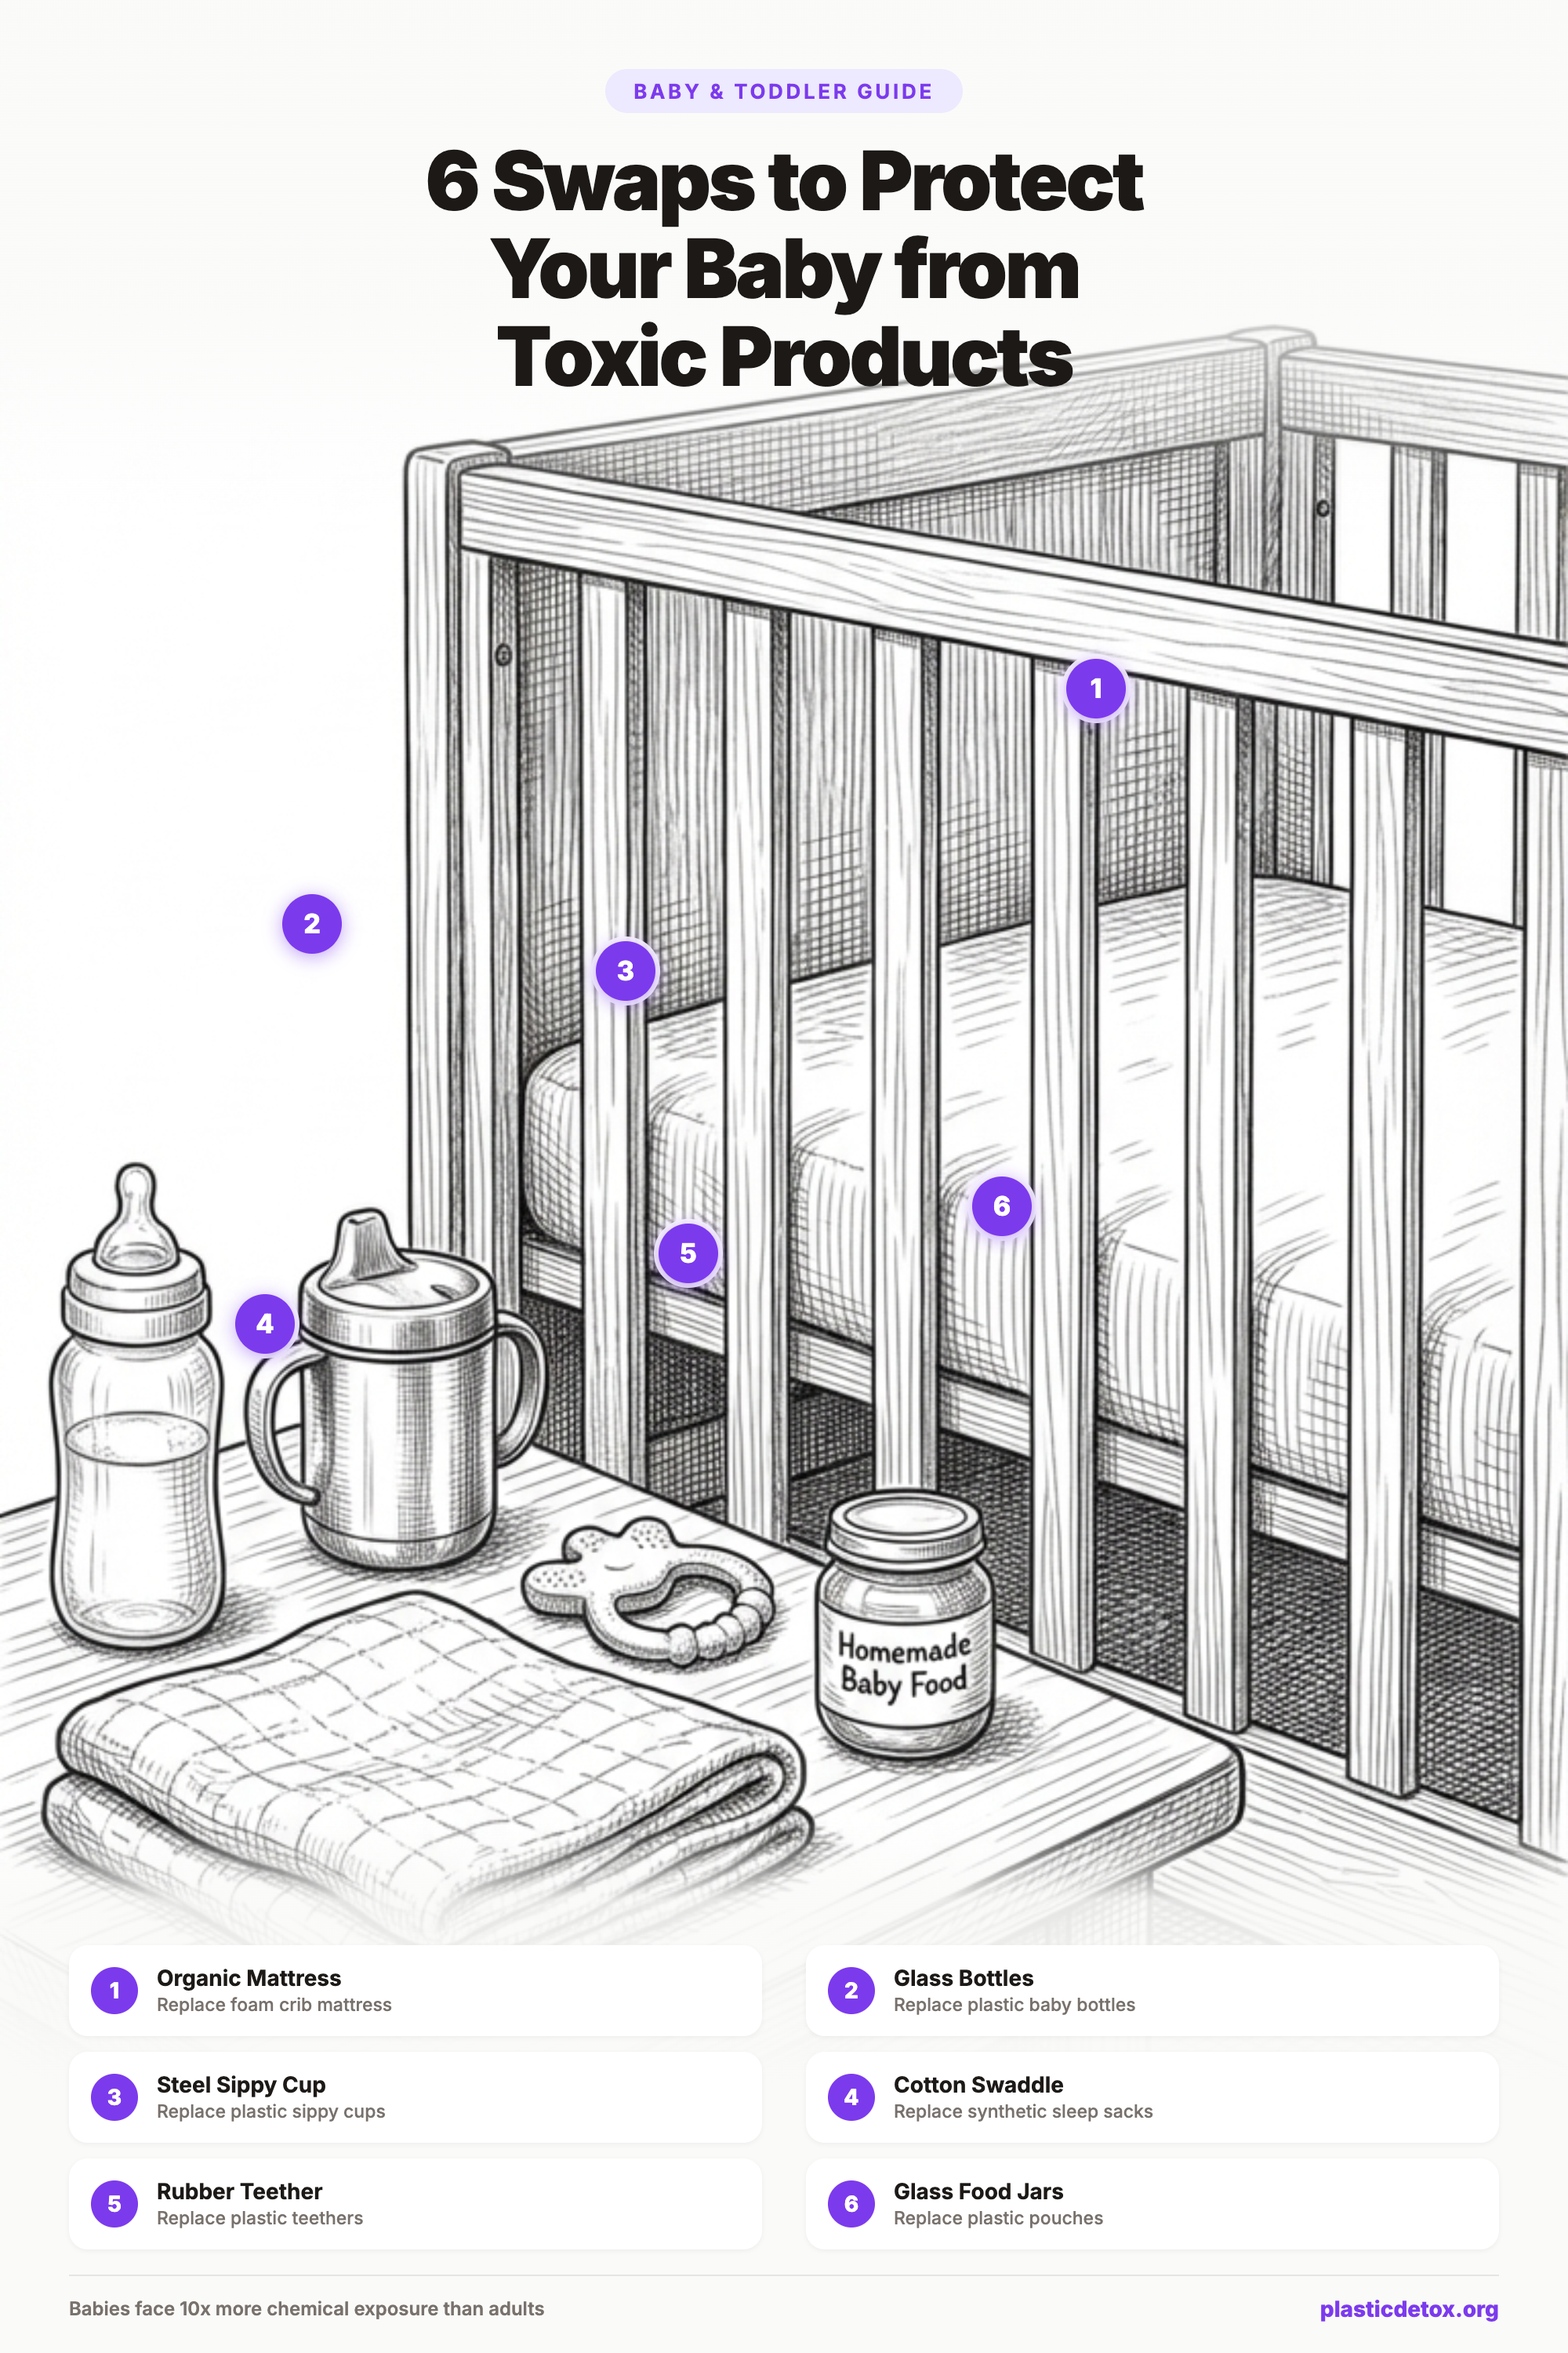
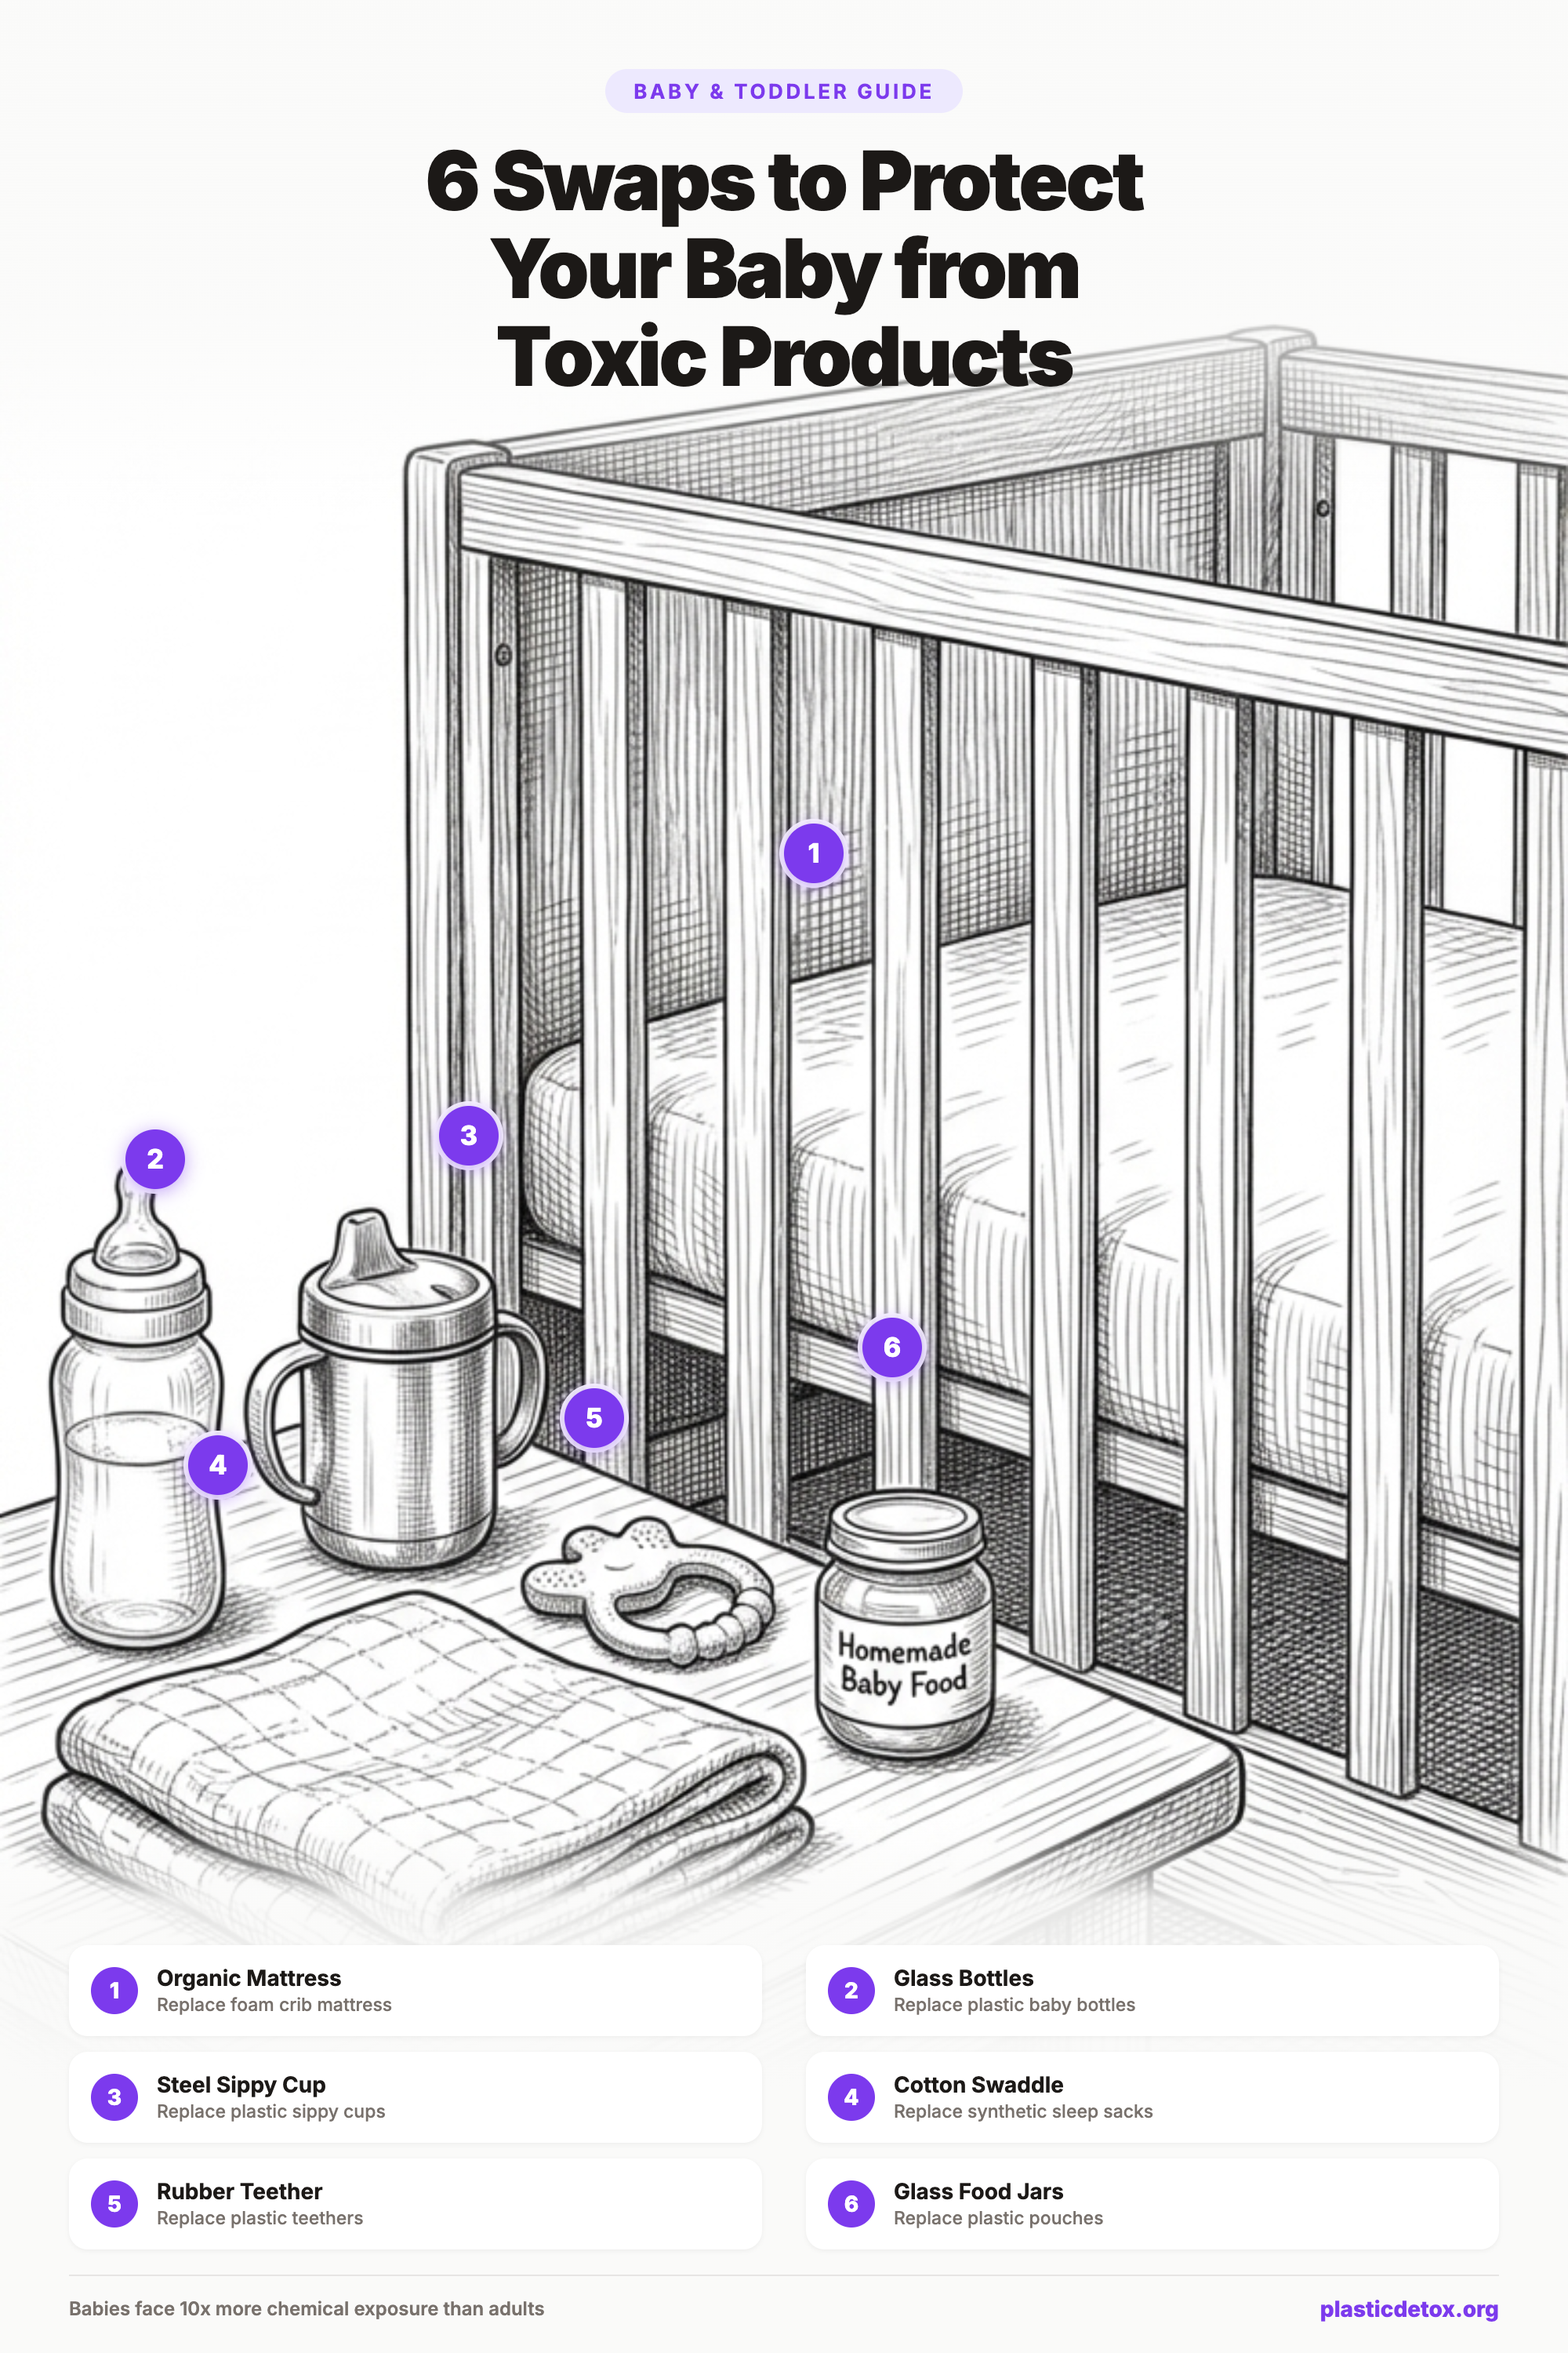
Fix badge positions on Pinterest pin image

diff --git a/images/baby-guide-swap-pinterest.html b/images/baby-guide-swap-pinterest.html
@@ -88,12 +88,12 @@
       z-index: 3;
     }
 
-    .badge-1 { left: 68%; top: 28%; }
-    .badge-2 { left: 18%; top: 38%; }
-    .badge-3 { left: 38%; top: 40%; }
-    .badge-4 { left: 15%; top: 55%; }
-    .badge-5 { left: 42%; top: 52%; }
-    .badge-6 { left: 62%; top: 50%; }
+    .badge-1 { left: 50%; top: 35%; }
+    .badge-2 { left: 8%;  top: 48%; }
+    .badge-3 { left: 28%; top: 47%; }
+    .badge-4 { left: 12%; top: 61%; }
+    .badge-5 { left: 36%; top: 59%; }
+    .badge-6 { left: 55%; top: 56%; }
 
     /* ─── BOTTOM: swap legend card ─── */
     .bottom-card {
